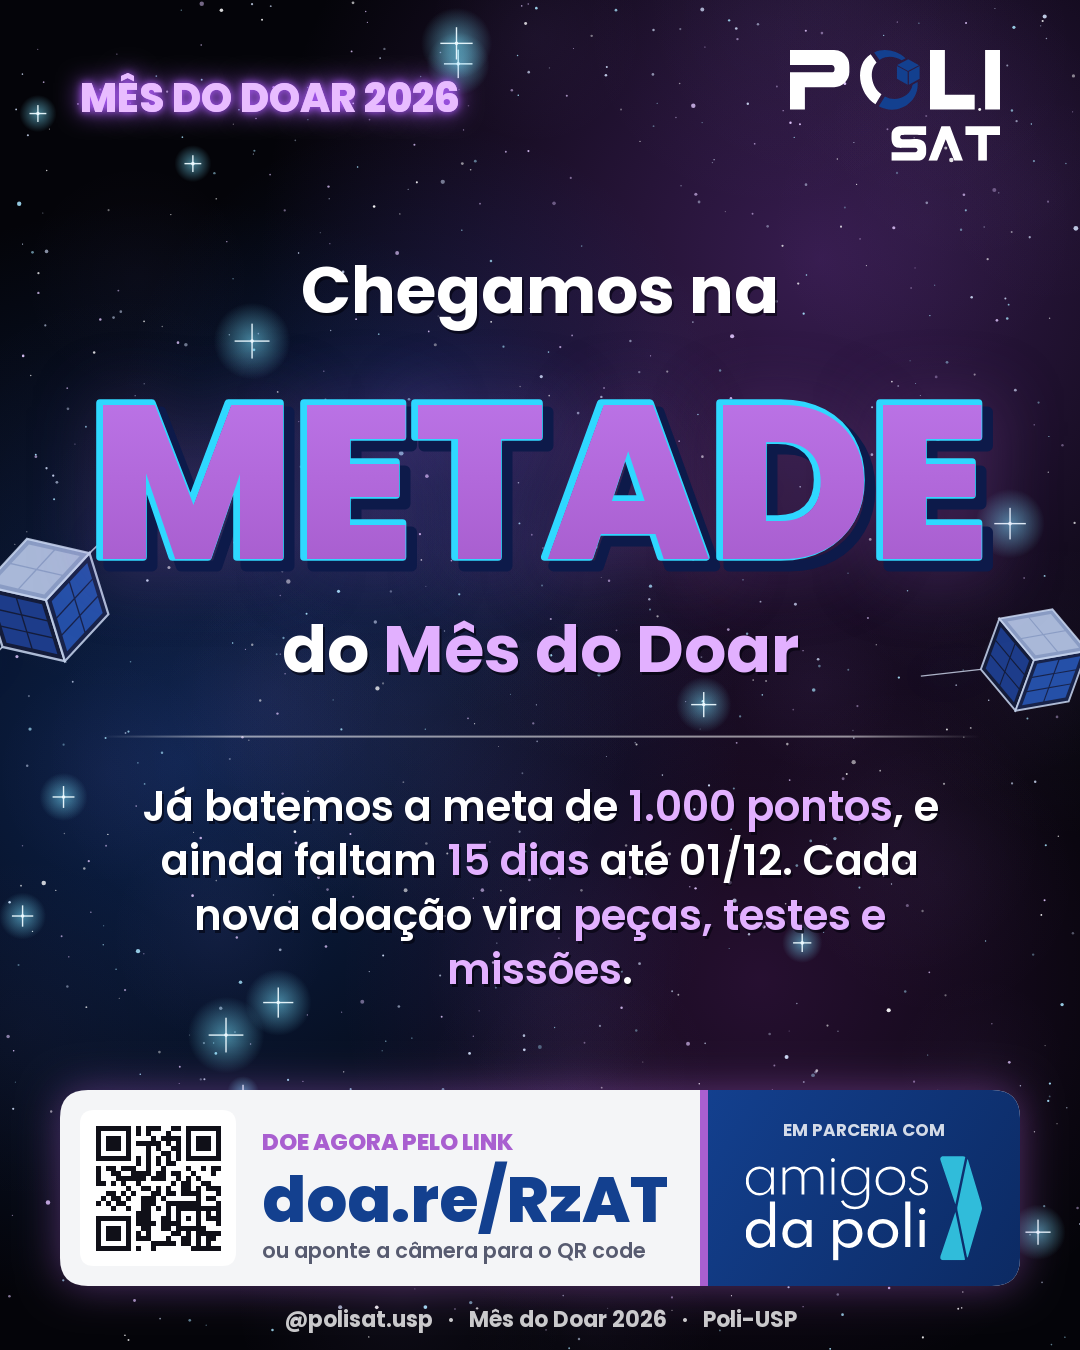
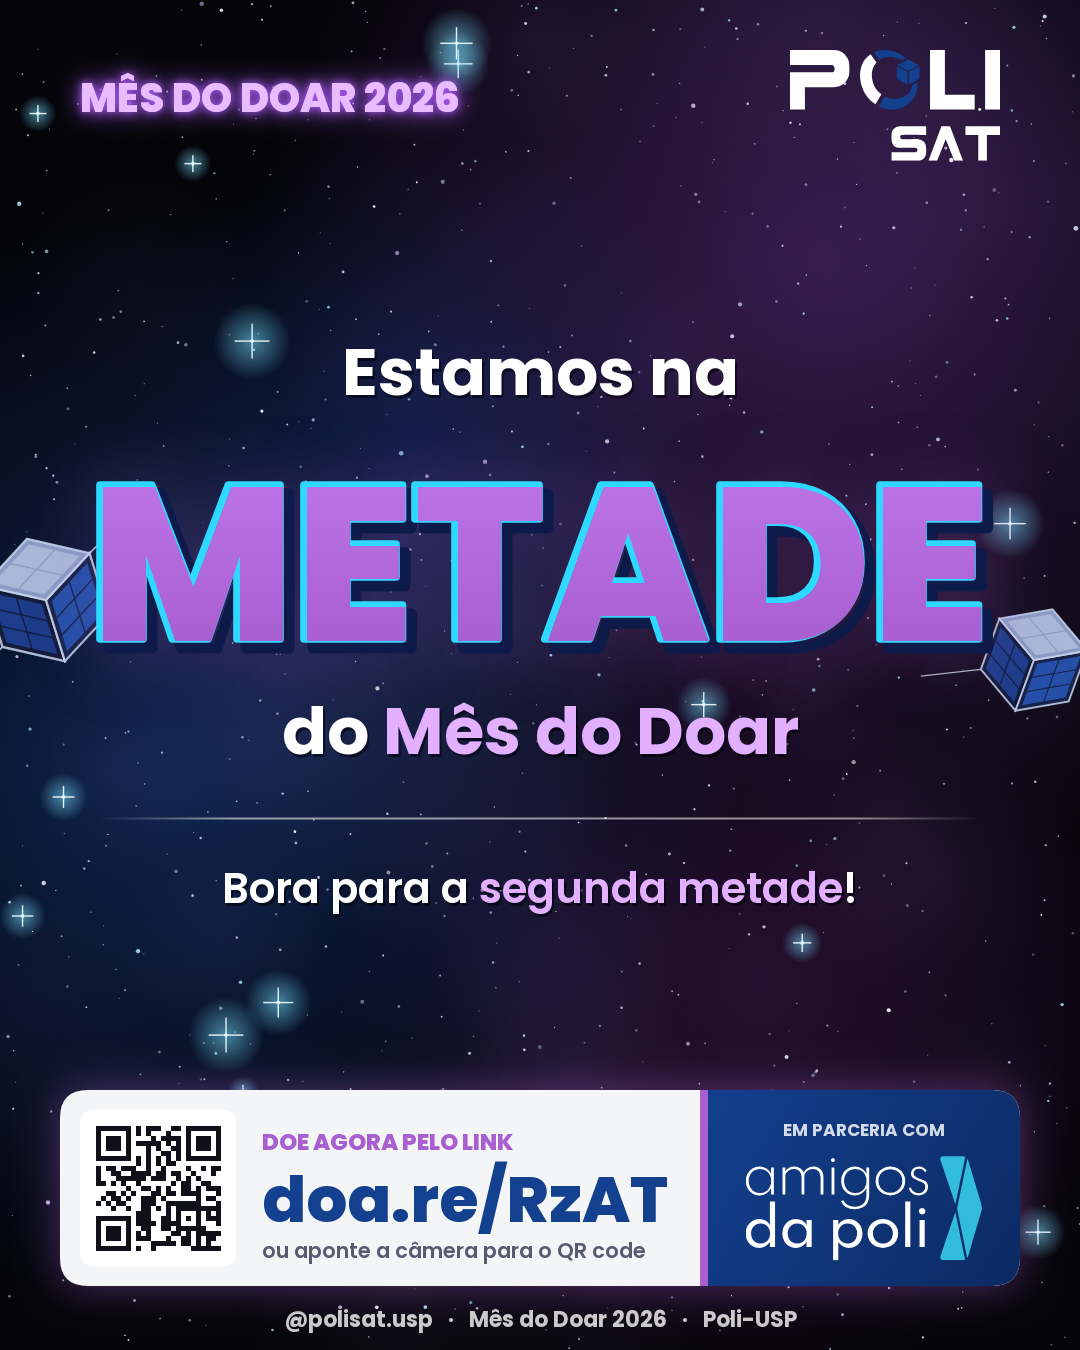
Simplifica o post "Metade do desafio"

Changed region(s): [[0.0917, 0.1867, 0.9167, 0.7467]]

diff --git a/assets/js/posts.js b/assets/js/posts.js
@@ -123,22 +123,18 @@ ${tags}`,
     {
       data: '2026-11-16', tema: 'Metade do desafio', template: 'numero', fundo: 'nebulosa',
       campos: {
-        antes: 'Chegamos na',
+        antes: 'Estamos na',
         numero: 'METADE',
         depois: 'do *Mês do Doar*',
-        texto: 'Já batemos a meta de *1.000 pontos*, e ainda faltam *15 dias* até 01/12. Cada nova doação vira *peças, testes e missões*.',
+        texto: 'Bora para a *segunda metade*!',
       },
       whatsapp: `🛰 *Chegamos na metade do Mês do Doar!*
 
-E que metade: graças a vocês, o *PoliSat* já bateu a meta de *1.000 pontos* 🎉 Muito obrigado a todo mundo que doou e compartilhou!
+Bora para a segunda metade: ainda dá tempo de apoiar o *PoliSat* 💙💜
+👉 ${LINK}`,
+      legenda: `Metade do Mês do Doar! 🛰
 
-Mas ainda faltam *15 dias* até o Dia de Doar (01/12), e cada nova doação vira componentes, testes e missões feitas por estudantes da Poli. Bora ir além da meta? 🚀
-👉 ${LINK}
-
-Se puder, encaminha para mais alguém 💙💜`,
-      legenda: `Metade do caminho! 🛰
-
-Já batemos a meta de 1.000 pontos, e ainda faltam 15 dias de Mês do Doar. Obrigado a todo mundo que apoiou até aqui! Agora é ir além: cada nova doação vira peças, testes e missões do PoliSat.
+Bora para a segunda metade com o PoliSat.
 
 💜 Doe: doa.re/RzAT
 

diff --git a/posts/MENSAGENS.md b/posts/MENSAGENS.md
@@ -146,20 +146,16 @@ Stand, montagem, lançamento e muita equipe. Experiências assim só acontecem c
 ```
 🛰 *Chegamos na metade do Mês do Doar!*
 
-E que metade: graças a vocês, o *PoliSat* já bateu a meta de *1.000 pontos* 🎉 Muito obrigado a todo mundo que doou e compartilhou!
-
-Mas ainda faltam *15 dias* até o Dia de Doar (01/12), e cada nova doação vira componentes, testes e missões feitas por estudantes da Poli. Bora ir além da meta? 🚀
+Bora para a segunda metade: ainda dá tempo de apoiar o *PoliSat* 💙💜
 👉 https://doa.re/RzAT
-
-Se puder, encaminha para mais alguém 💙💜
 ```
 
 **Instagram**
 
 ```
-Metade do caminho! 🛰
+Metade do Mês do Doar! 🛰
 
-Já batemos a meta de 1.000 pontos, e ainda faltam 15 dias de Mês do Doar. Obrigado a todo mundo que apoiou até aqui! Agora é ir além: cada nova doação vira peças, testes e missões do PoliSat.
+Bora para a segunda metade com o PoliSat.
 
 💜 Doe: doa.re/RzAT
 
